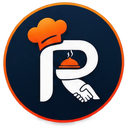
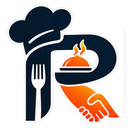
Rebrand: RestroMitra -> RestroKendra (live/user-facing surfaces)
Renames the product's user-facing brand name across every screen and
message a restaurant owner, staff member, or customer actually sees:
page titles/metadata, the landing page, legal pages (terms/privacy),
the public site footer, auth screens, dashboard sidebar "Powered by"
label (i18n, both English and Nepali), support tickets, payslips, the
MFA authenticator issuer name, transactional emails (password reset,
push-notification-fallback), the attendance-photo consent notice, the
AI assistant's own system prompt, printed QR poster footer text, the
PWA manifest, and README.md.

Also replaces the brand mark assets (public/brand/icon-*.png,
logo-horizontal.png, src/app/icon.png, src/app/favicon.ico) with the
new RestroKendra mark — cropped and centered programmatically from the
supplied wordmark artwork, same file names and dimensions as before so
every existing <img src="/brand/..."> reference and the QR-poster
canvas compositing code (qr-poster.ts, which draws the square icon
centered at a known size) keep working unchanged.

Deliberately left untouched, per explicit scope: internal identifiers
(package.json's "restromitra" name, the dev database name, env var
names), the GitHub repo name (an external, account-level rename only
the owner can do), and historical documentation (PHASE_*_NOTES.md and
similar phase/audit reports, which record what shipped under the old
name at the time and shouldn't be rewritten after the fact) — same
[…]

diff --git a/src/app/terms/page.tsx b/src/app/terms/page.tsx
@@ -2,8 +2,8 @@ import type { Metadata } from "next";
 import { LegalPageShell, LegalDisclaimer, LegalSection } from "@/components/legal/LegalPageShell";
 
 export const metadata: Metadata = {
-  title: "Terms of Service — RestroMitra",
-  description: "The terms that apply when a restaurant creates an account and uses RestroMitra.",
+  title: "Terms of Service — RestroKendra",
+  description: "The terms that apply when a restaurant creates an account and uses RestroKendra.",
 };
 
 // Rendered content mirrors TERMS.md at the repo root — that file is the
@@ -15,14 +15,14 @@ export default function TermsOfServicePage() {
     <LegalPageShell title="Terms of Service" lastUpdated="August 31, 2026">
       <LegalDisclaimer>
         This document is <strong>not legal advice</strong>. It is a straightforward, honest draft
-        describing what RestroMitra actually does and does not do today, written by reading the
+        describing what RestroKendra actually does and does not do today, written by reading the
         product&apos;s real behavior rather than a generic template. Have this reviewed by a qualified
         lawyer before commercial launch — especially the billing, liability, and termination
-        sections below. By creating an account or using RestroMitra (&quot;the Service&quot;), a restaurant
+        sections below. By creating an account or using RestroKendra (&quot;the Service&quot;), a restaurant
         and its authorized users agree to these terms.
       </LegalDisclaimer>
 
-      <LegalSection heading="1. What RestroMitra is">
+      <LegalSection heading="1. What RestroKendra is">
         <p>
           A restaurant management platform providing point-of-sale, QR ordering, kitchen display,
           inventory, staff/attendance/payroll, customer loyalty, expense tracking, an internal
@@ -47,7 +47,7 @@ export default function TermsOfServicePage() {
           <li>
             <strong>There is currently no automated payment gateway for subscription billing itself.</strong>{" "}
             Requesting or changing a plan is a manual, sales-assisted process handled by a
-            RestroMitra platform administrator — not an automatic credit-card checkout.
+            RestroKendra platform administrator — not an automatic credit-card checkout.
           </li>
           <li>Pricing already quoted to an existing restaurant is protected against future catalog price changes — a restaurant already on a plan keeps its existing price unless explicitly changed for it.</li>
           <li>
@@ -70,13 +70,13 @@ export default function TermsOfServicePage() {
       </LegalSection>
 
       <LegalSection heading="4. Acceptable use">
-        <p>You agree not to use the Service unlawfully or in a way that violates others&apos; rights (including your own customers&apos;/staff&apos;s privacy rights); attempt to access another restaurant&apos;s data or attack the Service&apos;s security; reverse-engineer, resell, or white-label the Service without a separate agreement; upload content you don&apos;t have the right to use; or use the attendance-photo feature in a way that violates applicable law or your staff&apos;s consent rights — RestroMitra provides a consent mechanism, but you are responsible for lawfully operating it.</p>
+        <p>You agree not to use the Service unlawfully or in a way that violates others&apos; rights (including your own customers&apos;/staff&apos;s privacy rights); attempt to access another restaurant&apos;s data or attack the Service&apos;s security; reverse-engineer, resell, or white-label the Service without a separate agreement; upload content you don&apos;t have the right to use; or use the attendance-photo feature in a way that violates applicable law or your staff&apos;s consent rights — RestroKendra provides a consent mechanism, but you are responsible for lawfully operating it.</p>
       </LegalSection>
 
       <LegalSection heading="5. Data ownership">
         <p>
           <strong>A restaurant owns its own business data</strong> — its menu, orders, customers,
-          staff records, inventory, financial records, and uploaded content. RestroMitra does not
+          staff records, inventory, financial records, and uploaded content. RestroKendra does not
           claim ownership of it and needs only the license required to store, process, and display
           it back to you as part of operating the Service. See our Privacy Policy for how personal
           data specifically is handled.
@@ -84,23 +84,23 @@ export default function TermsOfServicePage() {
       </LegalSection>
 
       <LegalSection heading="6. Third-party services">
-        <p>RestroMitra integrates with third-party services for certain features — an AI provider for the assistant, S3-compatible object storage for attendance photos, and (where configured) payment gateways for customer-facing order payments. Using those features means the relevant data is processed by that provider as needed, subject to its own terms.</p>
+        <p>RestroKendra integrates with third-party services for certain features — an AI provider for the assistant, S3-compatible object storage for attendance photos, and (where configured) payment gateways for customer-facing order payments. Using those features means the relevant data is processed by that provider as needed, subject to its own terms.</p>
       </LegalSection>
 
       <LegalSection heading="7. Availability and support">
-        <p>The Service is provided on an &quot;as available&quot; basis, with no uptime guarantee (SLA) made in this document. Backups exist as a tested, documented process, but run manually today, not on an automated schedule. The only support channel today is direct contact with RestroMitra — there is not yet a self-service ticketing system inside the product.</p>
+        <p>The Service is provided on an &quot;as available&quot; basis, with no uptime guarantee (SLA) made in this document. Backups exist as a tested, documented process, but run manually today, not on an automated schedule. The only support channel today is direct contact with RestroKendra — there is not yet a self-service ticketing system inside the product.</p>
       </LegalSection>
 
       <LegalSection heading="8. Disclaimer of warranties">
-        <p>The Service is provided &quot;as is&quot; and &quot;as available,&quot; without warranties of any kind. RestroMitra does not warrant the Service is uninterrupted, error-free, or fully compliant with every tax, labor, or data-protection law applicable to your specific restaurant and jurisdiction — you remain responsible for confirming your own legal and tax compliance obligations.</p>
+        <p>The Service is provided &quot;as is&quot; and &quot;as available,&quot; without warranties of any kind. RestroKendra does not warrant the Service is uninterrupted, error-free, or fully compliant with every tax, labor, or data-protection law applicable to your specific restaurant and jurisdiction — you remain responsible for confirming your own legal and tax compliance obligations.</p>
       </LegalSection>
 
       <LegalSection heading="9. Limitation of liability">
-        <p>To the maximum extent permitted by law, RestroMitra and its operator(s) will not be liable for indirect, incidental, special, consequential, or punitive damages, or loss of revenue, profits, or data, arising from your use of the Service.</p>
+        <p>To the maximum extent permitted by law, RestroKendra and its operator(s) will not be liable for indirect, incidental, special, consequential, or punitive damages, or loss of revenue, profits, or data, arising from your use of the Service.</p>
       </LegalSection>
 
       <LegalSection heading="10. Termination">
-        <p>A restaurant may stop using the Service at any time. RestroMitra may suspend or terminate access for a clear breach of these terms, non-payment beyond a reasonable grace period, or as required by law. Termination does not automatically delete a restaurant&apos;s data.</p>
+        <p>A restaurant may stop using the Service at any time. RestroKendra may suspend or terminate access for a clear breach of these terms, non-payment beyond a reasonable grace period, or as required by law. Termination does not automatically delete a restaurant&apos;s data.</p>
       </LegalSection>
 
       <LegalSection heading="11. Changes to these terms">

diff --git a/src/app/privacy/page.tsx b/src/app/privacy/page.tsx
@@ -2,8 +2,8 @@ import type { Metadata } from "next";
 import { LegalPageShell, LegalDisclaimer, LegalSection } from "@/components/legal/LegalPageShell";
 
 export const metadata: Metadata = {
-  title: "Privacy Policy — RestroMitra",
-  description: "What personal data RestroMitra collects, why, how it's stored, and how long it's kept.",
+  title: "Privacy Policy — RestroKendra",
+  description: "What personal data RestroKendra collects, why, how it's stored, and how long it's kept.",
 };
 
 // Rendered content mirrors PRIVACY.md at the repo root — that file is the
@@ -16,15 +16,15 @@ export default function PrivacyPolicyPage() {
       <LegalDisclaimer>
         This document is <strong>not legal advice</strong>, and it is not a substitute for a qualified
         lawyer&apos;s review before commercial launch. It is a plain, honest description of what
-        RestroMitra actually collects, stores, and does with personal data today. If you run a
-        restaurant on RestroMitra, you are responsible for your own lawful basis to collect your
+        RestroKendra actually collects, stores, and does with personal data today. If you run a
+        restaurant on RestroKendra, you are responsible for your own lawful basis to collect your
         customers&apos; and staff&apos;s data — this page describes what the software does, not your own
         legal obligations to the people whose data you put into it.
       </LegalDisclaimer>
 
       <LegalSection heading="Who this covers">
         <p>
-          This policy applies to personal data processed by the RestroMitra platform: the software
+          This policy applies to personal data processed by the RestroKendra platform: the software
           used by restaurant owners, managers, and staff to run point-of-sale, ordering, staff, and
           accounting operations, and by their customers using a restaurant&apos;s QR ordering, loyalty,
           or reservation features.
@@ -39,7 +39,7 @@ export default function PrivacyPolicyPage() {
         <p>
           For paid staff, a restaurant&apos;s owner/manager can record salary configuration, bank
           account details (if they choose to), payroll payment history, attendance records, leave
-          requests, and holidays. RestroMitra does not initiate bank transfers — this data exists for
+          requests, and holidays. RestroKendra does not initiate bank transfers — this data exists for
           the restaurant&apos;s own record-keeping.
         </p>
       </LegalSection>
@@ -50,7 +50,7 @@ export default function PrivacyPolicyPage() {
           <li>Consent is required before the first photo — a staff member is shown a plain-language notice explaining what&apos;s collected, why, who can see it, and how long it&apos;s kept, and must actively agree. Every consent version anyone has ever agreed to is kept permanently, never overwritten.</li>
           <li>Photos are stored in <strong>private object storage</strong> (an S3-compatible bucket), never in the application database, never publicly reachable.</li>
           <li>Photos are only ever viewed through a <strong>short-lived, signed URL</strong> minted at the moment someone with permission looks at it — no permanent public link exists.</li>
-          <li>Who can see a photo: that restaurant&apos;s own owner/managers, and RestroMitra platform staff for support or legal purposes if genuinely needed.</li>
+          <li>Who can see a photo: that restaurant&apos;s own owner/managers, and RestroKendra platform staff for support or legal purposes if genuinely needed.</li>
           <li>
             <strong>Retention: 90 days by default</strong> (configurable per deployment via
             <code className="mx-1 rounded bg-neutral-100 px-1.5 py-0.5 text-[13px]">ATTENDANCE_PHOTO_RETENTION_DAYS</code>
@@ -65,7 +65,7 @@ export default function PrivacyPolicyPage() {
           Depending on which features a restaurant uses, a customer may have their phone number,
           name, optional email/date of birth, order history, loyalty points/tier, visit streaks, and
           any notes staff add stored against their profile. This is collected by the restaurant
-          operating RestroMitra for its own CRM and loyalty purposes. Each restaurant&apos;s customer
+          operating RestroKendra for its own CRM and loyalty purposes. Each restaurant&apos;s customer
           list is isolated from every other restaurant&apos;s on the platform — none of it is sold,
           rented, or shared across restaurants.
         </p>
@@ -93,7 +93,7 @@ export default function PrivacyPolicyPage() {
           <li>Every restaurant&apos;s data is isolated from every other restaurant&apos;s at the application layer.</li>
           <li>Passwords are one-way hashed; attendance selfies live in private object storage behind signed URLs; AI provider keys are encrypted at rest.</li>
           <li>Sensitive actions (payroll changes, refunds, staff management, platform-admin actions) are recorded in an audit log.</li>
-          <li>RestroMitra has not undergone an independent third-party security audit or penetration test as of this writing.</li>
+          <li>RestroKendra has not undergone an independent third-party security audit or penetration test as of this writing.</li>
         </ul>
       </LegalSection>
 
@@ -120,7 +120,7 @@ export default function PrivacyPolicyPage() {
 
       <LegalSection heading="Children's data">
         <p>
-          RestroMitra is a business tool, not intended for use by children, and does not knowingly
+          RestroKendra is a business tool, not intended for use by children, and does not knowingly
           collect data about children beyond what a restaurant might record about its own staff.
         </p>
       </LegalSection>

diff --git a/src/app/page.tsx b/src/app/page.tsx
@@ -132,10 +132,10 @@ const FAQ_ITEMS: FaqItem[] = [
   {
     question: "Do I need to install anything or buy hardware?",
     answer:
-      "No. RestroMitra runs entirely in your browser — on a phone, tablet, or computer you already own. There's nothing to install, and a receipt printer is optional, not required.",
+      "No. RestroKendra runs entirely in your browser — on a phone, tablet, or computer you already own. There's nothing to install, and a receipt printer is optional, not required.",
   },
   {
-    question: "Is RestroMitra only for restaurants in Itahari and Sunsari?",
+    question: "Is RestroKendra only for restaurants in Itahari and Sunsari?",
     answer:
       "We're launching first in Itahari and Sunsari, Eastern Nepal — that's home, and where we're testing everything closely with real restaurants before scaling up. The platform itself already works for any restaurant, cafe, or momo shop anywhere in Nepal, and we're expanding city by city right behind the launch.",
   },
@@ -157,7 +157,7 @@ const FAQ_ITEMS: FaqItem[] = [
   {
     question: "What if I only run a small tea shop or momo cart?",
     answer:
-      "RestroMitra scales down as easily as it scales up. Use just the POS and billing if that's all you need today, and turn on QR ordering, inventory, or reports whenever you're ready for them.",
+      "RestroKendra scales down as easily as it scales up. Use just the POS and billing if that's all you need today, and turn on QR ordering, inventory, or reports whenever you're ready for them.",
   },
   {
     question: "Can I cancel anytime?",
@@ -175,7 +175,7 @@ export default function LandingPage() {
             {/* eslint-disable-next-line @next/next/no-img-element -- static brand asset from /public */}
             <img
               src="/brand/logo-horizontal.png"
-              alt="RestroMitra"
+              alt="RestroKendra"
               className="h-9 w-auto transition-transform duration-500 ease-out group-hover:scale-105 sm:h-10"
             />
           </Link>
@@ -366,7 +366,7 @@ export default function LandingPage() {
           <p className="mt-4 text-neutral-600">
             Spreadsheets and register tape don&apos;t talk to your kitchen. Generic,
             one-size-fits-all POS software wasn&apos;t built with Nepal&apos;s restaurants in
-            mind. RestroMitra was.
+            mind. RestroKendra was.
           </p>
         </Reveal>
 
@@ -376,7 +376,7 @@ export default function LandingPage() {
               <thead>
                 <tr className="bg-neutral-50 text-left text-xs font-semibold tracking-wide text-neutral-500 uppercase">
                   <th className="px-5 py-3.5">Capability</th>
-                  <th className="bg-orange-50 px-5 py-3.5 text-orange-700">RestroMitra</th>
+                  <th className="bg-orange-50 px-5 py-3.5 text-orange-700">RestroKendra</th>
                   <th className="px-5 py-3.5">Paper &amp; spreadsheets</th>
                   <th className="px-5 py-3.5">Generic POS software</th>
                 </tr>
@@ -458,7 +458,7 @@ export default function LandingPage() {
               {/* eslint-disable-next-line @next/next/no-img-element -- static brand asset from /public */}
               <img
                 src="/brand/logo-horizontal.png"
-                alt="RestroMitra"
+                alt="RestroKendra"
                 className="h-12 w-auto transition-transform duration-500 ease-out group-hover:scale-105 sm:h-14"
               />
             </Link>
@@ -487,7 +487,7 @@ export default function LandingPage() {
         </div>
         <div className="mt-8 flex flex-col items-center gap-3 sm:flex-row sm:justify-center sm:gap-6">
           <p className="text-xs text-neutral-400">
-            © {new Date().getFullYear()} RestroMitra · by Saugat Thapa
+            © {new Date().getFullYear()} RestroKendra · by Saugat Thapa
           </p>
           <span className="hidden text-neutral-300 sm:inline" aria-hidden="true">
             ·
@@ -534,7 +534,7 @@ function HeroDashboardMockup() {
           <span className="h-2.5 w-2.5 rounded-full bg-amber-300" />
           <span className="h-2.5 w-2.5 rounded-full bg-green-300" />
           <span className="ml-2 truncate text-[11px] font-medium text-neutral-400">
-            RestroMitra — Dashboard
+            RestroKendra — Dashboard
           </span>
           <span className="ml-auto inline-flex shrink-0 items-center gap-1.5 rounded-full bg-emerald-50 px-2 py-0.5 text-[10px] font-semibold text-emerald-700">
             <span className="h-1.5 w-1.5 rounded-full bg-emerald-500 animate-pulse-ring" />

diff --git a/src/lib/i18n-dictionary.ts b/src/lib/i18n-dictionary.ts
@@ -49,7 +49,7 @@ const DICTIONARY = {
   // --- Dashboard shell: header chrome ---
   "nav.openPos": { en: "Open POS", ne: "पिओएस खोल्नुहोस्" },
   "nav.logOut": { en: "Log out", ne: "लगआउट" },
-  "nav.poweredBy": { en: "Powered by RestroMitra", ne: "RestroMitra द्वारा संचालित" },
+  "nav.poweredBy": { en: "Powered by RestroKendra", ne: "RestroKendra द्वारा संचालित" },
   "nav.collapseSidebar": { en: "Collapse sidebar", ne: "साइडबार साँघुरो गर्नुहोस्" },
   "nav.expandSidebar": { en: "Expand sidebar", ne: "साइडबार फराकिलो गर्नुहोस्" },
   "nav.notifications": { en: "Notifications", ne: "सूचनाहरू" },
@@ -74,7 +74,7 @@ const DICTIONARY = {
   "publicMenu.totalLabel": { en: "Total", ne: "जम्मा" },
   "publicMenu.orderMore": { en: "Order more", ne: "थप अर्डर गर्नुहोस्" },
   "publicMenu.add": { en: "Add", ne: "थप्नुहोस्" },
-  "publicMenu.poweredBy": { en: "Powered by RestroMitra", ne: "RestroMitra द्वारा संचालित" },
+  "publicMenu.poweredBy": { en: "Powered by RestroKendra", ne: "RestroKendra द्वारा संचालित" },
   "publicMenu.viewCart": { en: "View cart", ne: "कार्ट हेर्नुहोस्" },
   "publicMenu.chooseOption": { en: "Choose an option", ne: "एउटा विकल्प छान्नुहोस्" },
   "publicMenu.addons": { en: "Add-ons", ne: "थप चीजहरू" },

diff --git a/src/lib/qr-poster.ts b/src/lib/qr-poster.ts
@@ -9,7 +9,7 @@
 // branding — isn't something an owner can put in front of a customer and
 // expect them to trust or even understand. The poster adds the restaurant's
 // own identity front and center (name, optional table label), a plain-
-// language call to action, and a small "Powered by RestroMitra" credit at
+// language call to action, and a small "Powered by RestroKendra" credit at
 // the very bottom — same customer-facing hierarchy as the public site and
 // QR-menu footers (src/app/site/[slug]/page.tsx, PublicOrderMenu.tsx): the
 // restaurant leads, the platform is the quiet small print.
@@ -182,11 +182,11 @@ export async function downloadQrPoster(opts: QrPosterOptions): Promise<void> {
   ctx.fillText(ctaText, W / 2, ctaY + ctaHeight / 2 + 2, ctaWidth - ctaPadX);
   ctx.textBaseline = "alphabetic";
 
-  // Footer — "Powered by RestroMitra", deliberately the smallest, quietest
+  // Footer — "Powered by RestroKendra", deliberately the smallest, quietest
   // element on the page (see file header comment).
   const footerY = H - 96;
   const footerMarkSize = 40;
-  const footerLabel = "Powered by RestroMitra";
+  const footerLabel = "Powered by RestroKendra";
   ctx.font = "600 24px system-ui, -apple-system, Segoe UI, Roboto, sans-serif";
   const labelWidth = ctx.measureText(footerLabel).width;
   const totalWidth = footerMarkSize + 10 + labelWidth;

diff --git a/src/components/legal/LegalPageShell.tsx b/src/components/legal/LegalPageShell.tsx
@@ -22,7 +22,7 @@ export function LegalPageShell({
         <div className="mx-auto flex w-full max-w-3xl items-center justify-between px-4 py-4 sm:px-6">
           <Link href="/" className="flex items-center">
             {/* eslint-disable-next-line @next/next/no-img-element -- static brand asset from /public */}
-            <img src="/brand/logo-horizontal.png" alt="RestroMitra" className="h-8 w-auto sm:h-9" />
+            <img src="/brand/logo-horizontal.png" alt="RestroKendra" className="h-8 w-auto sm:h-9" />
           </Link>
           <Link href="/" className="text-sm font-medium text-neutral-500 transition hover:text-neutral-800">
             ← Back to home
@@ -38,7 +38,7 @@ export function LegalPageShell({
 
       <footer className="border-t border-neutral-100 px-4 py-8 sm:px-6">
         <div className="mx-auto flex w-full max-w-3xl flex-col items-center justify-between gap-3 text-sm text-neutral-500 sm:flex-row">
-          <p>© {new Date().getFullYear()} RestroMitra</p>
+          <p>© {new Date().getFullYear()} RestroKendra</p>
           <nav className="flex items-center gap-5">
             <Link href="/privacy" className="transition hover:text-neutral-900">
               Privacy Policy

diff --git a/src/lib/ai/assistant.ts b/src/lib/ai/assistant.ts
@@ -112,7 +112,7 @@ export function buildSystemPrompt(restaurantName: string, summary: ReportSummary
     .map((s) => `${s.staffName}: ${s.completedOrders} orders, ${formatNPR(s.revenueInPaisa)}`)
     .join("; ");
 
-  return `You are the analytics assistant built into RestroMitra, a restaurant management system, answering questions for the owner/manager of "${restaurantName}" — a restaurant in Nepal.
+  return `You are the analytics assistant built into RestroKendra, a restaurant management system, answering questions for the owner/manager of "${restaurantName}" — a restaurant in Nepal.
 
 You may ONLY use the data given below, which covers ${range.from} to ${range.to} (inclusive). Do not invent, estimate, or assume any figure that is not explicitly present here. If the question asks about something outside this data (a different date range, a specific customer, inventory/stock levels, staff details, anything not listed below), say plainly that you don't have that information in this view, rather than guessing.
 

diff --git a/src/app/billing/BillingBoard.tsx b/src/app/billing/BillingBoard.tsx
@@ -162,7 +162,7 @@ export function BillingBoard({ slug }: { slug: string }) {
             )}
             {data.subscriptionStatus === "paused" && (
               <p className="mt-1 text-sm text-neutral-600">
-                Your subscription was paused by RestroMitra. Contact support to resume it.
+                Your subscription was paused by RestroKendra. Contact support to resume it.
               </p>
             )}
           </div>
@@ -176,7 +176,7 @@ export function BillingBoard({ slug }: { slug: string }) {
                 status applied even when it doesn't. */}
             Access to your dashboard is currently blocked.{" "}
             {data.subscriptionStatus === "paused"
-              ? "Contact RestroMitra support to resume."
+              ? "Contact RestroKendra support to resume."
               : data.canManageSubscription
                 ? "Choose a plan below to keep going."
                 : "Ask your restaurant owner to choose a plan below."}

diff --git a/src/components/auth/AuthMarketingPanel.tsx b/src/components/auth/AuthMarketingPanel.tsx
@@ -2,7 +2,7 @@ import { NavIcon } from "@/components/NavIcon";
 import { AuthIcon } from "./AuthIcons";
 
 // Real features only — no fabricated "30+ restaurants" / "4.9 rating"
-// social-proof numbers, since RestroMitra doesn't have that track record yet
+// social-proof numbers, since RestroKendra doesn't have that track record yet
 // and a made-up stat is worse than no stat once someone checks. Everything
 // here (the feature list, the 30-day/no-card/cancel-anytime trio, the
 // preview's chrome) matches what the product and the register API
@@ -74,7 +74,7 @@ export function AuthMarketingPanel() {
           <span className="h-2.5 w-2.5 rounded-full bg-amber-300" />
           <span className="h-2.5 w-2.5 rounded-full bg-green-300" />
           <span className="ml-2 text-[11px] font-medium text-neutral-400">
-            RestroMitra — Dashboard
+            RestroKendra — Dashboard
           </span>
         </div>
         <div className="flex gap-3">

diff --git a/src/app/dashboard/staff/StaffBoard.tsx b/src/app/dashboard/staff/StaffBoard.tsx
@@ -620,7 +620,7 @@ function AddStaffForm({
         </label>
       </div>
       <p className="mt-2 text-xs text-neutral-400">
-        If this phone number already has a RestroMitra account, they&apos;re just granted a role here —
+        If this phone number already has a RestroKendra account, they&apos;re just granted a role here —
         name and password are ignored. Otherwise a new account is created with the name and password
         above.
       </p>
@@ -1786,7 +1786,7 @@ function PaySalaryModal({
           </p>
         ) : (
           <p className="mt-3 rounded-lg bg-amber-50 px-3 py-2 text-xs text-amber-800">
-            RestroMitra can&apos;t automatically verify {PAYOUT_METHOD_LABELS[method].toLowerCase()} transfers — only
+            RestroKendra can&apos;t automatically verify {PAYOUT_METHOD_LABELS[method].toLowerCase()} transfers — only
             confirm this once the money has actually been sent.
           </p>
         )}

diff --git a/src/app/layout.tsx b/src/app/layout.tsx
@@ -2,7 +2,7 @@ import type { Metadata, Viewport } from "next";
 import "./globals.css";
 
 export const metadata: Metadata = {
-  title: "RestroMitra — The Restaurant Operating System for Nepal",
+  title: "RestroKendra — The Restaurant Operating System for Nepal",
   description:
     "The all-in-one restaurant operating system built for Nepal: POS, QR ordering, kitchen display, inventory, staff & branches, loyalty, account books, an AI assistant, and your own free website — one connected platform, in English or the Nepali calendar. Launching first in Itahari & Sunsari, expanding across Nepal.",
   // Phase 22 (offline mode / installable app) — manifest.json + the
@@ -16,7 +16,7 @@ export const metadata: Metadata = {
   appleWebApp: {
     capable: true,
     statusBarStyle: "default",
-    title: "RestroMitra",
+    title: "RestroKendra",
   },
 };
 

diff --git a/src/app/suspended/page.tsx b/src/app/suspended/page.tsx
@@ -46,11 +46,11 @@ export default async function SuspendedPage() {
         <div className="rounded-xl border border-red-200 bg-red-50 p-6">
           <h1 className="text-lg font-semibold text-red-900">Access suspended</h1>
           <p className="mt-2 text-sm text-red-800">
-            {active.name}&apos;s access to RestroMitra has been suspended by the platform. Your
+            {active.name}&apos;s access to RestroKendra has been suspended by the platform. Your
             data is preserved and nothing has been deleted — this can be reversed.
           </p>
           <p className="mt-3 text-sm text-red-800">
-            Contact RestroMitra support for details or to request reinstatement.
+            Contact RestroKendra support for details or to request reinstatement.
           </p>
         </div>
       </main>
